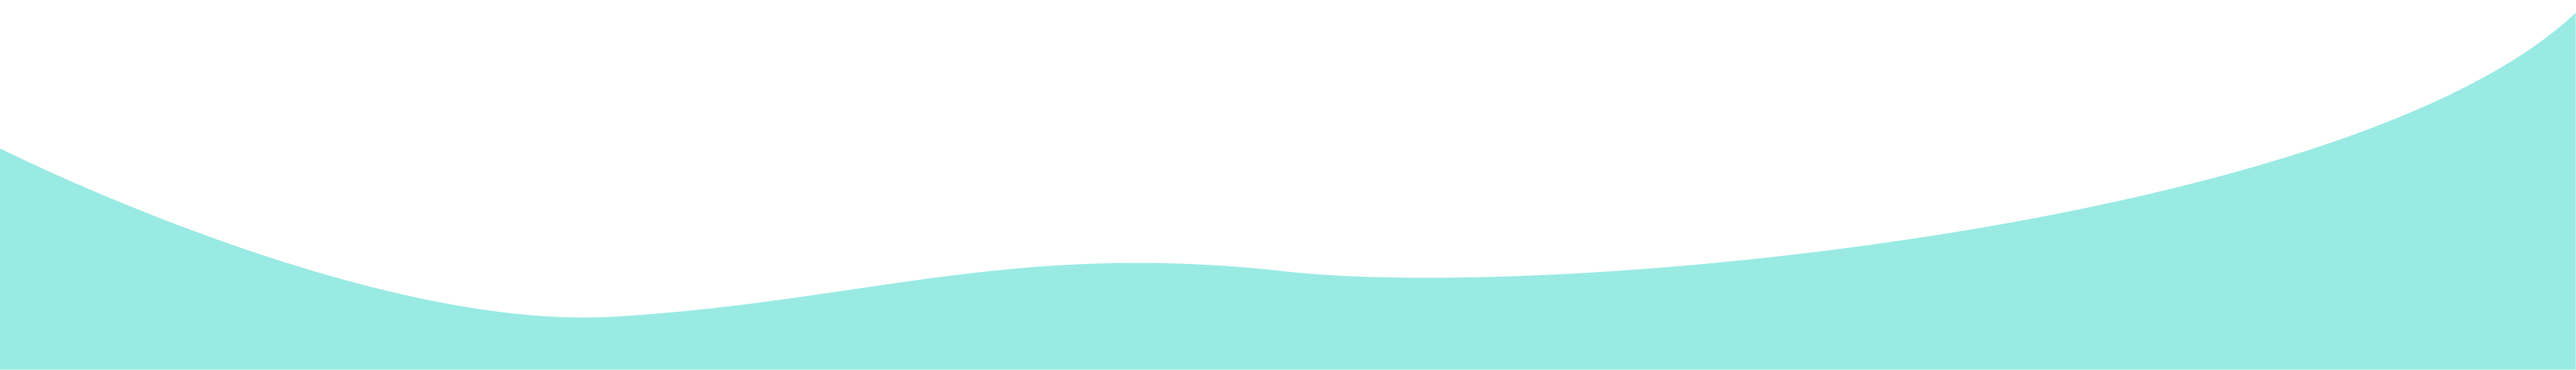
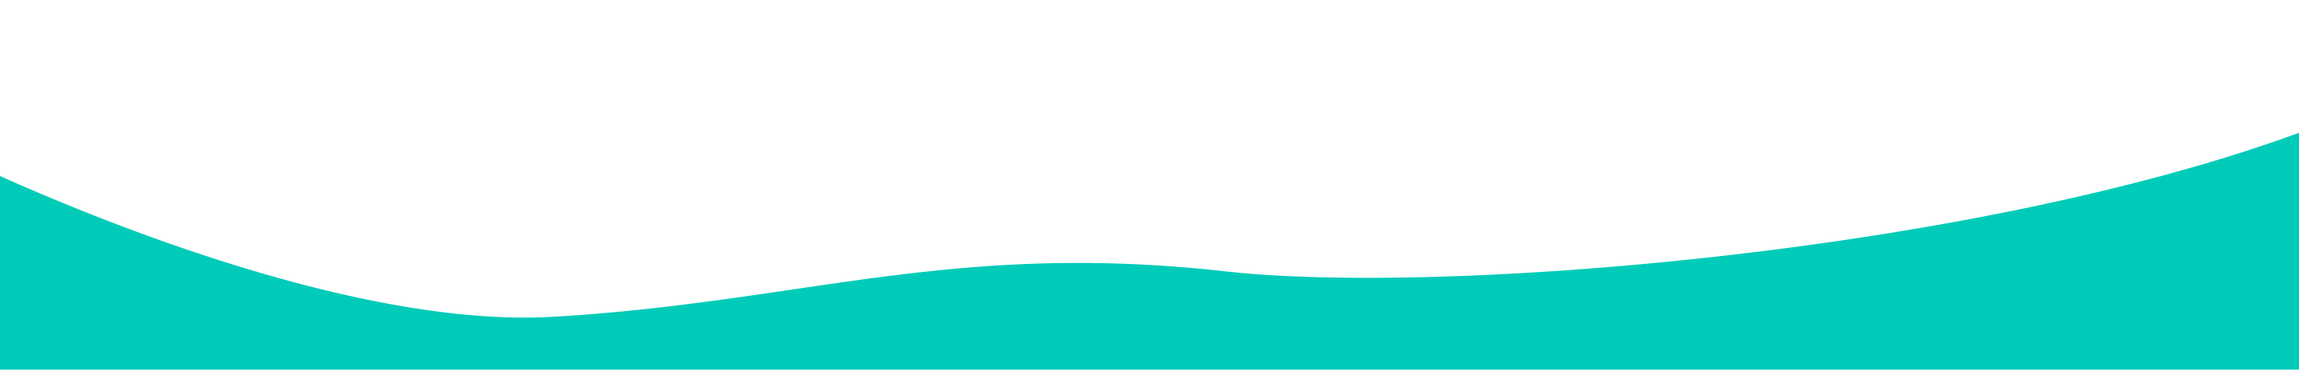
feed: add AboutUs section

diff --git a/src/component/AboutUs.js/AboutUs.jsx b/src/component/AboutUs.js/AboutUs.jsx
@@ -1,12 +1,72 @@
+'use client';
 
+import { FaCircle } from "react-icons/fa";
+import { useState } from "react";
 
 export const AboutUs = () => {
-    return(
-        <section  
-            className=" -mt-[50px]"
-        >
-            <img src="./image.png" alt=""  />
-        </section>
-    )
-}
+    const [expanded, setExpanded] = useState(false);
+    const toggleExpanded = () => setExpanded((prev) => !prev);  
+
+  return (
+    <section className="-mt-[50px]">
+      <img src="./image.png" alt="Decorative background" className="w-full" />
+
+      <div className="grid grid-cols-1 md:grid-cols-2 gap-10 px-10 lg:px-16 py-15 pb-50 bg-[#00CBB8] -mt-2">
+        {/* Left Content */}
+        <div className="relative z-10">
+          <div className="relative inline-block mb-6">
+            <FaCircle
+            //   size={60}
+              className="absolute top-0 -left-3 lg:-left-5 text-[#33EFA0] z-0 text-4xl lg:text-6xl"
+            />
+            <h1 className="text-4xl lg:text-6xl font-medium text-heading-text relative z-10">
+              About Us
+            </h1>
+          </div>
+
+          <p 
+          className={`text-lg lg:text-2xl font-normal leading-relaxed text-[#696984] mb-4 transition-all duration-300 ease-in-out ${
+              expanded ? '' : 'line-clamp-4'
+            }`} 
+            >
+            Open Door Sports is a dedicated organization committed to fostering
+            the overall gross motor development of children through thoughtfully
+            curated physical activities and sports programs. We strive to create
+            inclusive environments where children of all abilities can explore,
+            play, and grow through movement. Our expert-designed sessions
+            promote coordination, strength, balance, and social interaction to
+            build confidence and a love for being active.
+          </p>
+
+          <a 
+          className="underline cursor-pointer text-lg lg:text-2xl text-[#696984]"
+           onClick={() => setExpanded(!expanded)}
+          >
+            {expanded ? 'Show less' : 'Learn more'}
+          </a>
+        </div>
+
+        {/* Right Content (Video) */}
+        <div className="relative z-10">
+          {/* Top Decoration */}
+          <div className="w-[100px] h-[110px] bg-[#2F327D] absolute -left-4 -top-4 rounded-2xl -z-10"></div>
+
+          {/* Responsive Video */}
+          <div className="relative z-10 rounded-lg overflow-hidden aspect-video w-full ">
+            <iframe
+              className="w-full h-full"
+              src="https://www.youtube.com/embed/kdCUNPX8fz4?autoplay=1&mute=1"
+              title="YouTube video player"
+              frameBorder="0"
+              allow="accelerometer; autoplay; clipboard-write; encrypted-media; gyroscope; picture-in-picture; web-share"
+              allowFullScreen
+              loading="lazy"
+            ></iframe>
+          </div>
+        </div>
+      </div>
+    </section>
+  );
+};
+
 export default AboutUs;

diff --git a/src/component/navbar/Dropdown.jsx b/src/component/navbar/Dropdown.jsx
@@ -21,7 +21,7 @@ export const Dropdown = ({ onClose }) => {
       className="flex flex-col gap-2 w-[250px] h-screen overflow-scroll bg-white border border-white rounded-sm shadow-md p-3 pb-15"
     >
       <RxCross2
-        className="cursor-pointer mx-auto mr-2 text-nav-text min-w-[20px] min-h-[20px]"
+        className="cursor-pointer mx-auto mr-2 text-nav-text min-w-[20px] max-h-[20px]"
         onClick={onClose}
       />
       <NavLink to="/" text="Home" className={linkBorder} />

diff --git a/src/app/page.js b/src/app/page.js
@@ -2,6 +2,7 @@
 import { Navbar } from "@/component/navbar/Navbar";
 import HeroSection from "@/component/HeroSection.js/Landing";
 import AboutUs from "@/component/AboutUs.js/AboutUs";
+
 export default function Home() {
   return ( 
    <>

diff --git a/src/app/globals.css b/src/app/globals.css
@@ -8,7 +8,7 @@
   --darkSlateBlue:#17246D; 
   --majorelleBlue: #583CE1; 
   --blueGray: #6971A3; 
-
+  
   --font-gentium: 'Gentium Book Basic', serif;
   --font-gwendolyn: 'Gwendolyn', cursive; 
 }

diff --git a/src/app/home/page.js b/src/app/home/page.js
@@ -1,0 +1,11 @@
+import { Navbar } from "@/component/navbar/Navbar"
+
+export default function Home() {
+  return ( 
+   <>
+    <Navbar />
+   
+   </>
+  )
+}
+
